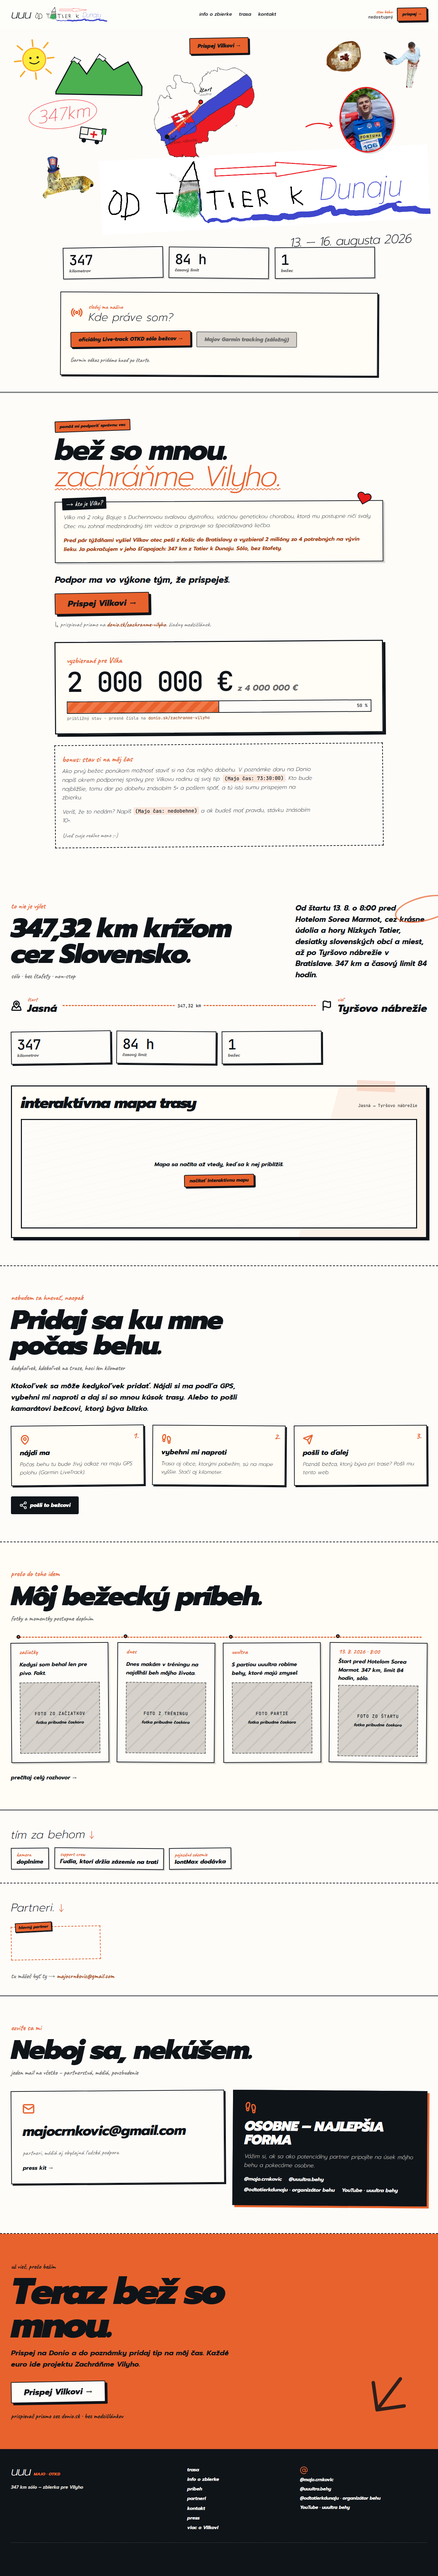
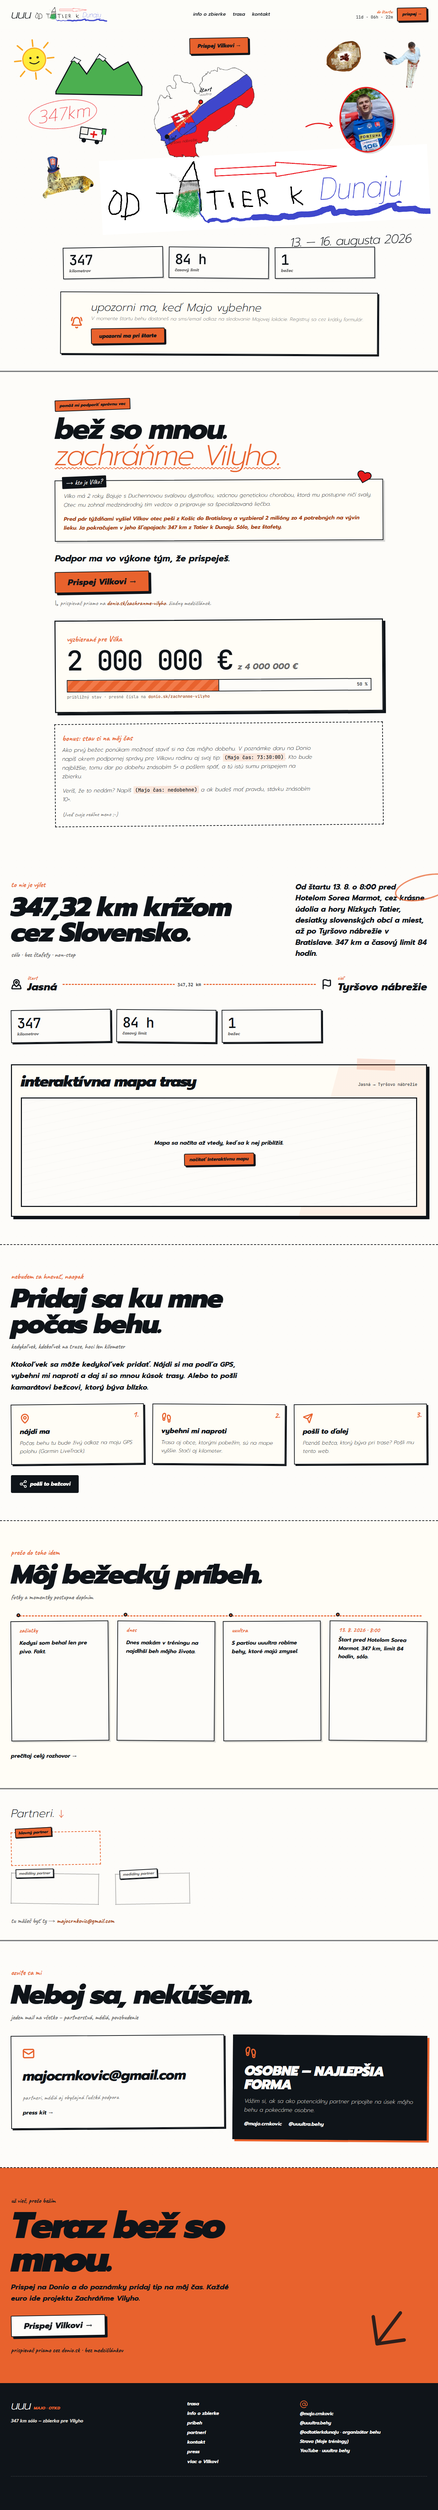
feat(fe): add Lisu sponsor and Markíza/Refresher media partners
Media partners carry their own quieter tag, so the ember box stays unique
to the hlavný partner rather than being derived from any label.

The footer flattens partner logos to a white silhouette, which collapsed
Markíza's blue circle and yellow wave into one blank disc. It now uses a
mono asset whose wave is a real transparent cutout; the full colour logo
is unchanged in the partner strip.

diff --git a/fe/src/App.test.tsx b/fe/src/App.test.tsx
@@ -2,6 +2,7 @@ import { fireEvent, render, screen, within } from '@testing-library/react';
 import { MemoryRouter } from 'react-router';
 import { describe, expect, it, vi } from 'vitest';
 import App from './App';
+import { siteContent } from './config/content';
 import type { EventState } from './features/event/eventState';
 
 const preEventState: EventState = {
@@ -248,6 +249,16 @@ describe('App routes', () => {
       'src',
       '/allpeople.png',
     );
+    expect(screen.getAllByRole('img', { name: 'Lisu' })[0]).toHaveAttribute('src', '/lisu.png');
+    expect(screen.getAllByRole('img', { name: 'Markíza' })[0]).toHaveAttribute(
+      'src',
+      '/markiza.png',
+    );
+    expect(screen.getAllByRole('img', { name: 'Refresher' })[0]).toHaveAttribute(
+      'src',
+      '/refresher.png',
+    );
+    expect(screen.getAllByText('mediálny partner')).toHaveLength(2);
     expect(screen.getByText(/tu môžeš byť ty/)).toBeInTheDocument();
     expect(screen.getByRole('link', { name: 'prečítaj celý rozhovor →' })).toHaveAttribute(
       'href',
@@ -286,7 +297,18 @@ describe('App routes', () => {
     expect(within(footer).queryByRole('link', { name: 'tím' })).not.toBeInTheDocument();
     expect(within(footer).queryByRole('link', { name: /príspevk/ })).not.toBeInTheDocument();
     expect(within(footer).getByText('347 km sólo – zbierka pre Vilyho')).toBeInTheDocument();
-    expect(within(footer).getAllByRole('img')).toHaveLength(4);
+    expect(within(footer).getAllByRole('img')).toHaveLength(
+      siteContent.partners.list.filter((partner) => partner.logoMono ?? partner.logo).length,
+    );
+  });
+
+  it('gives the footer silhouette a logo whose detail survives being flattened', () => {
+    renderAt('/');
+
+    expect(within(screen.getByRole('contentinfo')).getByRole('img', { name: 'Markíza' })).toHaveAttribute(
+      'src',
+      '/markiza-mono.png',
+    );
   });
 
   it.each([

diff --git a/fe/src/config/content.ts b/fe/src/config/content.ts
@@ -123,7 +123,10 @@ export interface PartnerItem {
   href?: string;
   label?: string;
   logo?: ReadyContentImage;
+  /** Used where logos are flattened to a silhouette: internal detail must be transparent, not coloured. */
+  logoMono?: ReadyContentImage;
   name: string;
+  variant?: "main" | "media";
 }
 
 export interface PartnersContent {
@@ -362,6 +365,7 @@ export const siteContent = Object.freeze({
         name: "IontMax",
         href: "https://www.iontmax.com/",
         label: "hlavný partner",
+        variant: "main",
         logo: {
           alt: "IontMax",
           height: 113,
@@ -401,6 +405,50 @@ export const siteContent = Object.freeze({
           src: "/allpeople.png",
           status: "ready",
           width: 800,
+        },
+      },
+      {
+        name: "Lisu",
+        href: "https://lisu.cz",
+        logo: {
+          alt: "Lisu",
+          height: 92,
+          src: "/lisu.png",
+          status: "ready",
+          width: 206,
+        },
+      },
+      {
+        name: "Markíza",
+        href: "https://www.markiza.sk/",
+        label: "mediálny partner",
+        variant: "media",
+        logo: {
+          alt: "Markíza",
+          height: 213,
+          src: "/markiza.png",
+          status: "ready",
+          width: 906,
+        },
+        logoMono: {
+          alt: "Markíza",
+          height: 213,
+          src: "/markiza-mono.png",
+          status: "ready",
+          width: 906,
+        },
+      },
+      {
+        name: "Refresher",
+        href: "https://refresher.sk/205038-23-rocny-Majo-kedysi-behal-len-pre-pivo-teraz-sa-chysta-zdolat-345-km-v-behu-Od-Tatier-k-Dunaju-Rozhovor",
+        label: "mediálny partner",
+        variant: "media",
+        logo: {
+          alt: "Refresher",
+          height: 129,
+          src: "/refresher.png",
+          status: "ready",
+          width: 450,
         },
       },
     ],

diff --git a/fe/src/features/home/SiteFooter.tsx b/fe/src/features/home/SiteFooter.tsx
@@ -35,14 +35,15 @@ export function SiteFooter() {
 
         <div aria-label="Partneri behu" className="site-footer__partners" role="group">
           {siteContent.partners.list.map((partner) => {
-            if (!partner.logo) return null;
+            const source = partner.logoMono ?? partner.logo;
+            if (!source) return null;
             const logo = (
               <img
-                alt={partner.logo.alt}
-                height={partner.logo.height}
+                alt={source.alt}
+                height={source.height}
                 loading="lazy"
-                src={partner.logo.src}
-                width={partner.logo.width}
+                src={source.src}
+                width={source.width}
               />
             );
             return partner.href ? (

diff --git a/fe/src/index.css b/fe/src/index.css
@@ -2281,10 +2281,18 @@ a {
   object-fit: contain;
 }
 
-.partner-strip__item--main {
+.partner-strip__item--main,
+.partner-strip__item--media {
   position: relative;
   padding: 1.4rem 1.1rem 0.8rem;
+}
+
+.partner-strip__item--main {
   border: 2px dashed var(--color-ember);
+}
+
+.partner-strip__item--media {
+  border: 2px dotted var(--color-ash);
 }
 
 .partner-strip__item--main img {
@@ -2304,6 +2312,13 @@ a {
   padding: 0.15rem 0.5rem;
   transform: rotate(-2deg);
   white-space: nowrap;
+}
+
+.partner-strip__item--media .partner-strip__label {
+  background: var(--color-paper);
+  color: var(--color-ash);
+  font-size: 0.66rem;
+  font-weight: 700;
 }
 
 .partner-strip strong {

diff --git a/fe/src/features/home/PartnersSection.tsx b/fe/src/features/home/PartnersSection.tsx
@@ -26,7 +26,7 @@ export function PartnersSection() {
 
             return (
               <li
-                className={partner.label ? 'partner-strip__item--main' : undefined}
+                className={partner.variant ? `partner-strip__item--${partner.variant}` : undefined}
                 key={partner.name}
               >
                 {partner.label ? (
